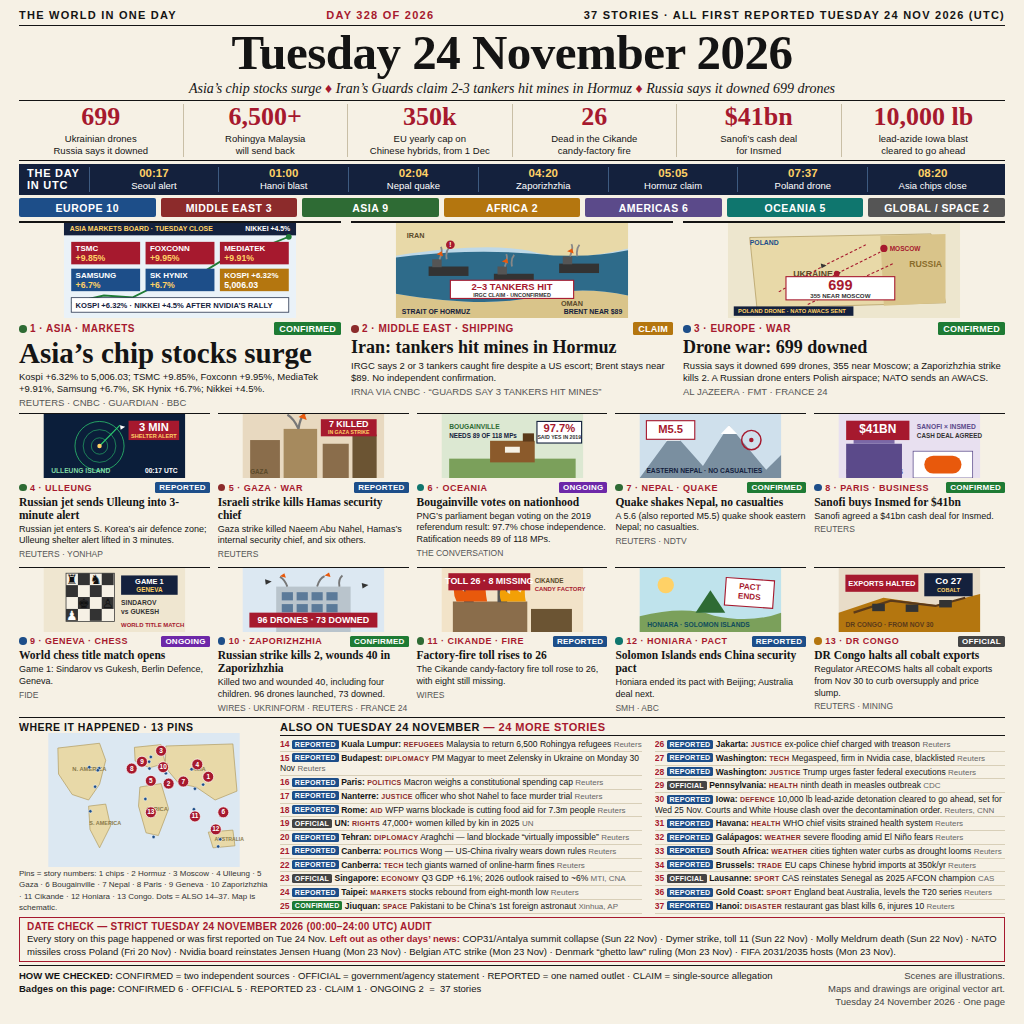
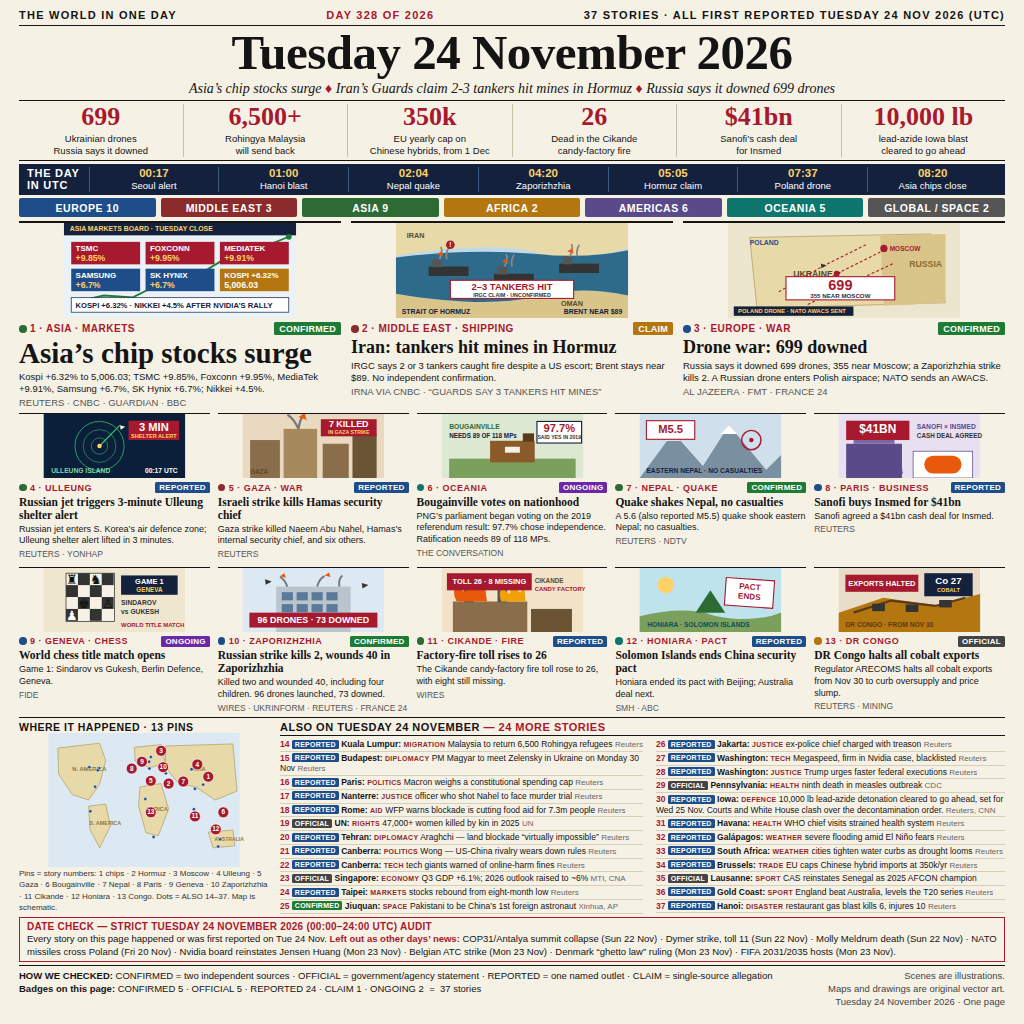
news-image-20261124 round 2 fix 6: hero 4 title -> triggers 3-minute Ulleung shelter alert; hero 11 TOLL block widened + font 24->20 (T fully inside red); drop NIKKEI +4.5% from hero 1 title row (kept in footer strip); #14 REFUGEES -> MIGRATION; #8 CONFIRMED -> REPORTED, footer recount 5/5/24/1/2=37

diff --git a/build/front.html b/build/front.html
@@ -122,7 +122,6 @@ h1{font-size:98px;line-height:1.04;text-align:center;letter-spacing:-1px;padding
 <rect width="640" height="262" fill="#EAF2F8"/>
 <rect x="0" y="0" width="640" height="34" fill="#14213D"/>
 <text x="16" y="23" font-family="Arial" font-size="19" font-weight="bold" fill="#FFD166">ASIA MARKETS BOARD &#183; TUESDAY CLOSE</text>
-<text x="624" y="23" font-family="Arial" font-size="19" font-weight="bold" fill="#fff" text-anchor="end">NIKKEI +4.5%</text>
 <polyline points="20,220 110,200 190,205 280,160 360,150 450,95 540,70 620,38" fill="none" stroke="#1E7B34" stroke-width="5"/>
 <circle cx="620" cy="38" r="8" fill="#1E7B34"/>
 <g font-family="Arial" font-weight="bold">
@@ -213,7 +212,7 @@ h1{font-size:98px;line-height:1.04;text-align:center;letter-spacing:-1px;padding
 <text x="360" y="158" font-family="Arial" font-size="18" font-weight="bold" fill="#fff" text-anchor="end">00:17 UTC</text>
 </svg>
 <div class="tagrow"><span class="kicker"><span class="dot" style="background:#2E6B34"></span>4 &middot; ULLEUNG</span><span class="badge b-rep">REPORTED</span></div>
-<h3>Russian jet sends Ulleung into 3-minute alert</h3>
+<h3>Russian jet triggers 3-minute Ulleung shelter alert</h3>
 <p>Russian jet enters S. Korea&rsquo;s air defence zone; Ulleung shelter alert lifted in 3 minutes.</p>
 <div class="src">REUTERS &middot; YONHAP</div>
 </div>
@@ -279,7 +278,7 @@ h1{font-size:98px;line-height:1.04;text-align:center;letter-spacing:-1px;padding
 <text x="210" y="64" font-family="Arial" font-size="17" font-weight="bold" fill="#333">CASH DEAL AGREED</text>
 <text x="20" y="160" font-family="Arial" font-size="17" font-weight="bold" fill="#5B4A8A">PARIS &middot; BUSINESS</text>
 </svg>
-<div class="tagrow"><span class="kicker"><span class="dot" style="background:#1D4E89"></span>8 &middot; PARIS &middot; BUSINESS</span><span class="badge b-conf">CONFIRMED</span></div>
+<div class="tagrow"><span class="kicker"><span class="dot" style="background:#1D4E89"></span>8 &middot; PARIS &middot; BUSINESS</span><span class="badge b-rep">REPORTED</span></div>
 <h3>Sanofi buys Insmed for $41bn</h3>
 <p>Sanofi agreed a $41bn cash deal for Insmed.</p>
 <div class="src">REUTERS</div>
@@ -332,8 +331,8 @@ h1{font-size:98px;line-height:1.04;text-align:center;letter-spacing:-1px;padding
 <rect x="60" y="58" width="26" height="34" fill="#555"/><rect x="150" y="58" width="26" height="34" fill="#555"/>
 <path d="M40,90 q-16,-34 2,-56 q6,26 22,30 q-4,-30 16,-48 q2,30 20,40 q6,-18 18,-24 q-2,26 4,58 Z" fill="#E8590C"/>
 <path d="M160,90 q-10,-26 6,-44 q4,20 18,24 q-2,-22 14,-34 q0,24 14,30 q4,-12 12,-16 q-2,22 2,40 Z" fill="#F2A007"/>
-<rect x="18" y="14" width="220" height="46" fill="#A6192E"/>
-<text x="128" y="44" font-family="Arial" font-size="24" font-weight="bold" fill="#fff" text-anchor="middle">TOLL 26 &middot; 8 MISSING</text>
+<rect x="14" y="14" width="228" height="46" fill="#A6192E"/>
+<text x="128" y="44" font-family="Arial" font-size="20" font-weight="bold" fill="#fff" text-anchor="middle">TOLL 26 &middot; 8 MISSING</text>
 <text x="250" y="40" font-family="Arial" font-size="17" font-weight="bold" fill="#5B4A2A">CIKANDE</text>
 <text x="250" y="62" font-family="Arial" font-size="16" font-weight="bold" fill="#A6192E">CANDY FACTORY</text>
 </svg>
@@ -425,7 +424,7 @@ h1{font-size:98px;line-height:1.04;text-align:center;letter-spacing:-1px;padding
 <div class="alsohead">ALSO ON TUESDAY 24 NOVEMBER <span>&mdash; 24 MORE STORIES</span></div>
 <div class="also">
 <div>
-<div class="it"><b>14</b> <span class="bdg b-rep">REPORTED</span> <span class="pl">Kuala Lumpur:</span> <span class="tg">REFUGEES</span> Malaysia to return 6,500 Rohingya refugees <span class="sr">Reuters</span></div>
+<div class="it"><b>14</b> <span class="bdg b-rep">REPORTED</span> <span class="pl">Kuala Lumpur:</span> <span class="tg">MIGRATION</span> Malaysia to return 6,500 Rohingya refugees <span class="sr">Reuters</span></div>
 <div class="it wrap"><b>15</b> <span class="bdg b-rep">REPORTED</span> <span class="pl">Budapest:</span> <span class="tg">DIPLOMACY</span> PM Magyar to meet Zelensky in Ukraine on Monday 30 Nov <span class="sr">Reuters</span></div>
 <div class="it"><b>16</b> <span class="bdg b-rep">REPORTED</span> <span class="pl">Paris:</span> <span class="tg">POLITICS</span> Macron weighs a constitutional spending cap <span class="sr">Reuters</span></div>
 <div class="it"><b>17</b> <span class="bdg b-rep">REPORTED</span> <span class="pl">Nanterre:</span> <span class="tg">JUSTICE</span> officer who shot Nahel to face murder trial <span class="sr">Reuters</span></div>
@@ -448,7 +447,7 @@ h1{font-size:98px;line-height:1.04;text-align:center;letter-spacing:-1px;padding
 <div class="it"><b>32</b> <span class="bdg b-rep">REPORTED</span> <span class="pl">Gal&aacute;pagos:</span> <span class="tg">WEATHER</span> severe flooding amid El Ni&ntilde;o fears <span class="sr">Reuters</span></div>
 <div class="it"><b>33</b> <span class="bdg b-rep">REPORTED</span> <span class="pl">South Africa:</span> <span class="tg">WEATHER</span> cities tighten water curbs as drought looms <span class="sr">Reuters</span></div>
 <div class="it"><b>34</b> <span class="bdg b-rep">REPORTED</span> <span class="pl">Brussels:</span> <span class="tg">TRADE</span> EU caps Chinese hybrid imports at 350k/yr <span class="sr">Reuters</span></div>
-<div class="it"><b>35</b> <span class="bdg b-off">OFFICIAL</span> <span class="pl">Lausanne:</span> <span class="tg">SPORT</span> CAS reinstates Senegal as 2025 AFCON champion <span class="sr">CAS</span></div>
+<div class="it"><b>35</b> <span class="bdg b-off">OFFICIAL</span> <span class="pl">Lausanne:</span> <span class="tg">SPORT</span> CAS reinstates Senegal as 2025 AFCON champion</div>
 <div class="it"><b>36</b> <span class="bdg b-rep">REPORTED</span> <span class="pl">Gold Coast:</span> <span class="tg">SPORT</span> England beat Australia, levels the T20 series <span class="sr">Reuters</span></div>
 <div class="it"><b>37</b> <span class="bdg b-rep">REPORTED</span> <span class="pl">Hanoi:</span> <span class="tg">DISASTER</span> restaurant gas blast kills 6, injures 10 <span class="sr">Reuters</span></div>
 </div>
@@ -461,7 +460,7 @@ h1{font-size:98px;line-height:1.04;text-align:center;letter-spacing:-1px;padding
 </div>
 <div class="footer">
 <div class="badges"><b>HOW WE CHECKED:</b> CONFIRMED = two independent sources &middot; OFFICIAL = government/agency statement &middot; REPORTED = one named outlet &middot; CLAIM = single-source allegation<br>
-<b>Badges on this page:</b> CONFIRMED 6 &middot; OFFICIAL 5 &middot; REPORTED 23 &middot; CLAIM 1 &middot; ONGOING 2 &nbsp;=&nbsp; 37 stories</div>
+<b>Badges on this page:</b> CONFIRMED 5 &middot; OFFICIAL 5 &middot; REPORTED 24 &middot; CLAIM 1 &middot; ONGOING 2 &nbsp;=&nbsp; 37 stories</div>
 <div class="note">Scenes are illustrations.<br>Maps and drawings are original vector art.<br>Tuesday 24 November 2026 &middot; One page</div>
 </div>
 </div></body></html>
